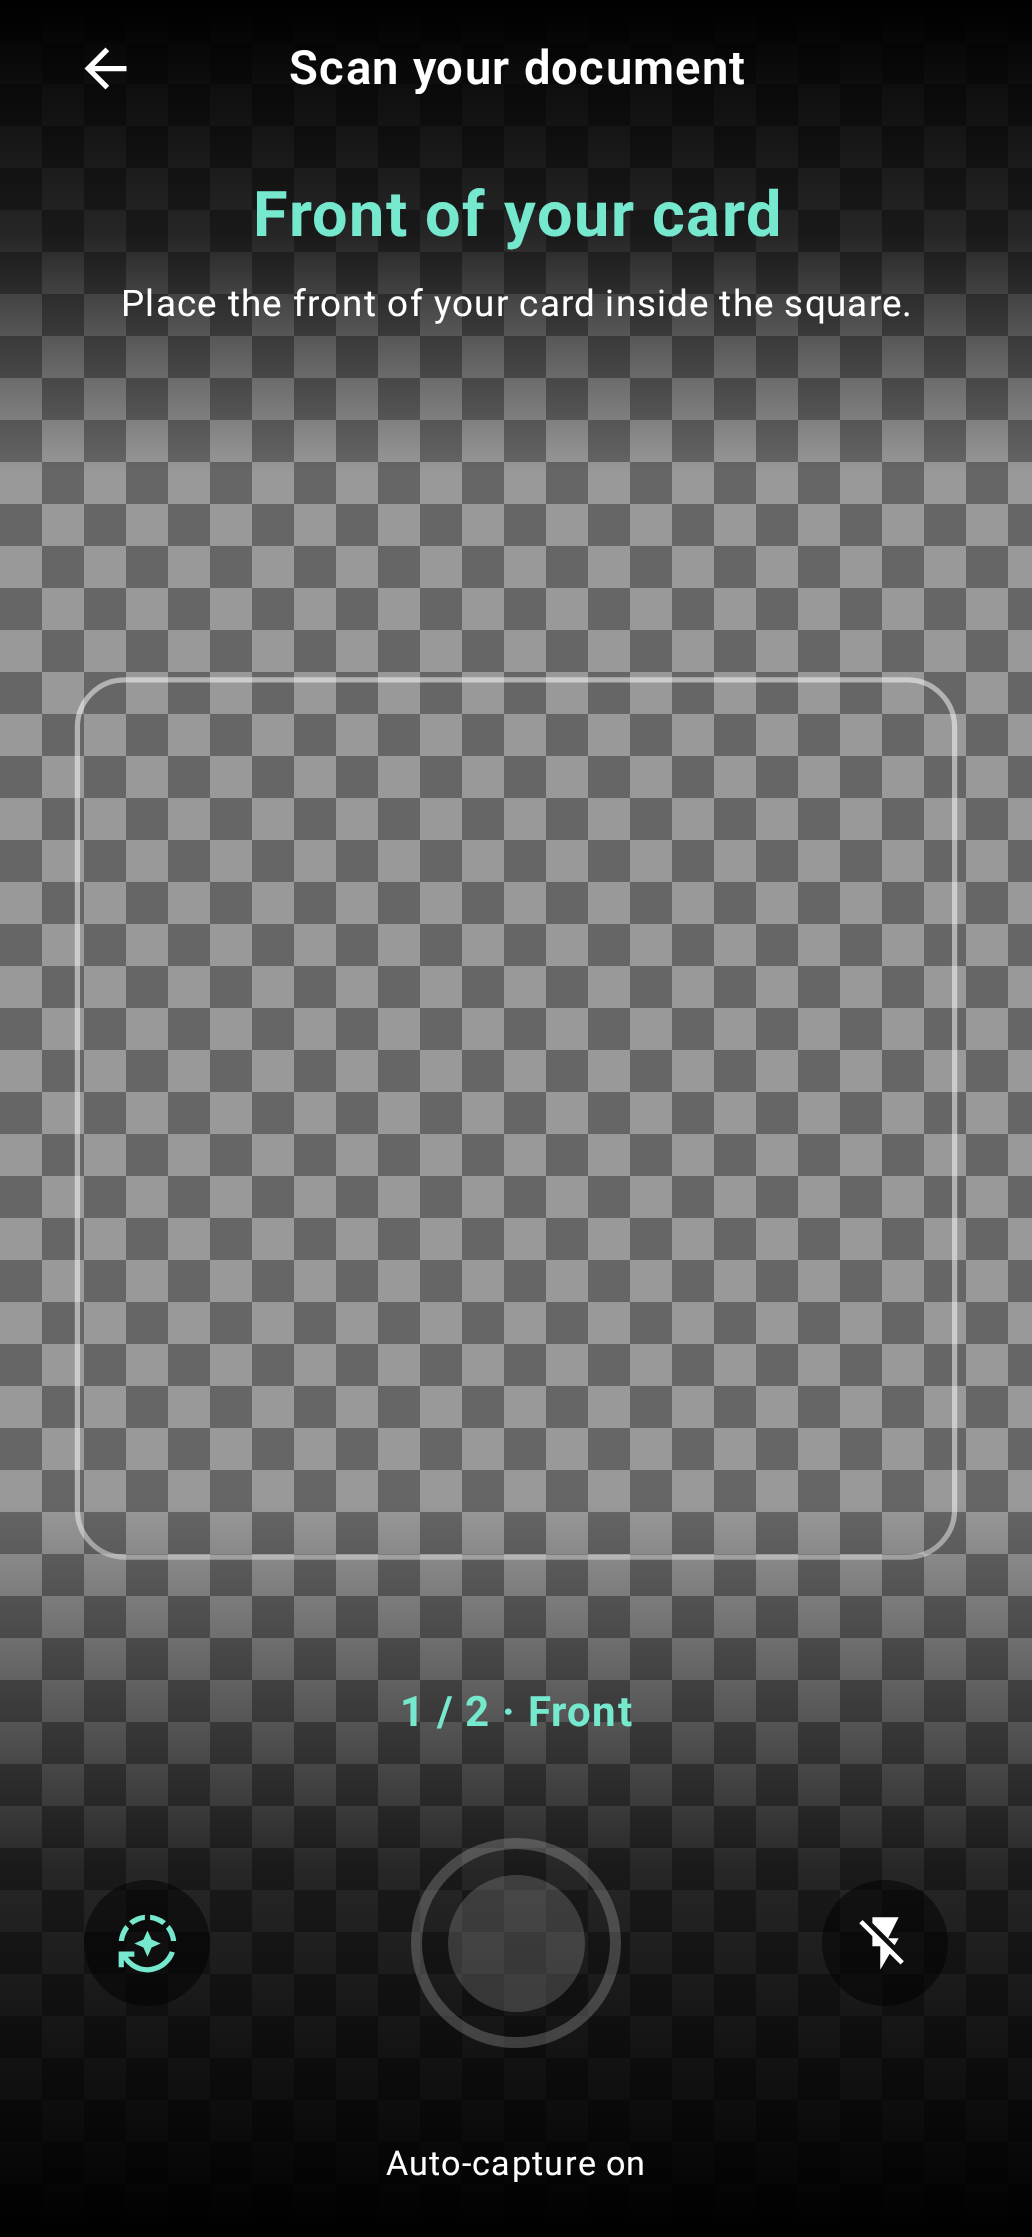
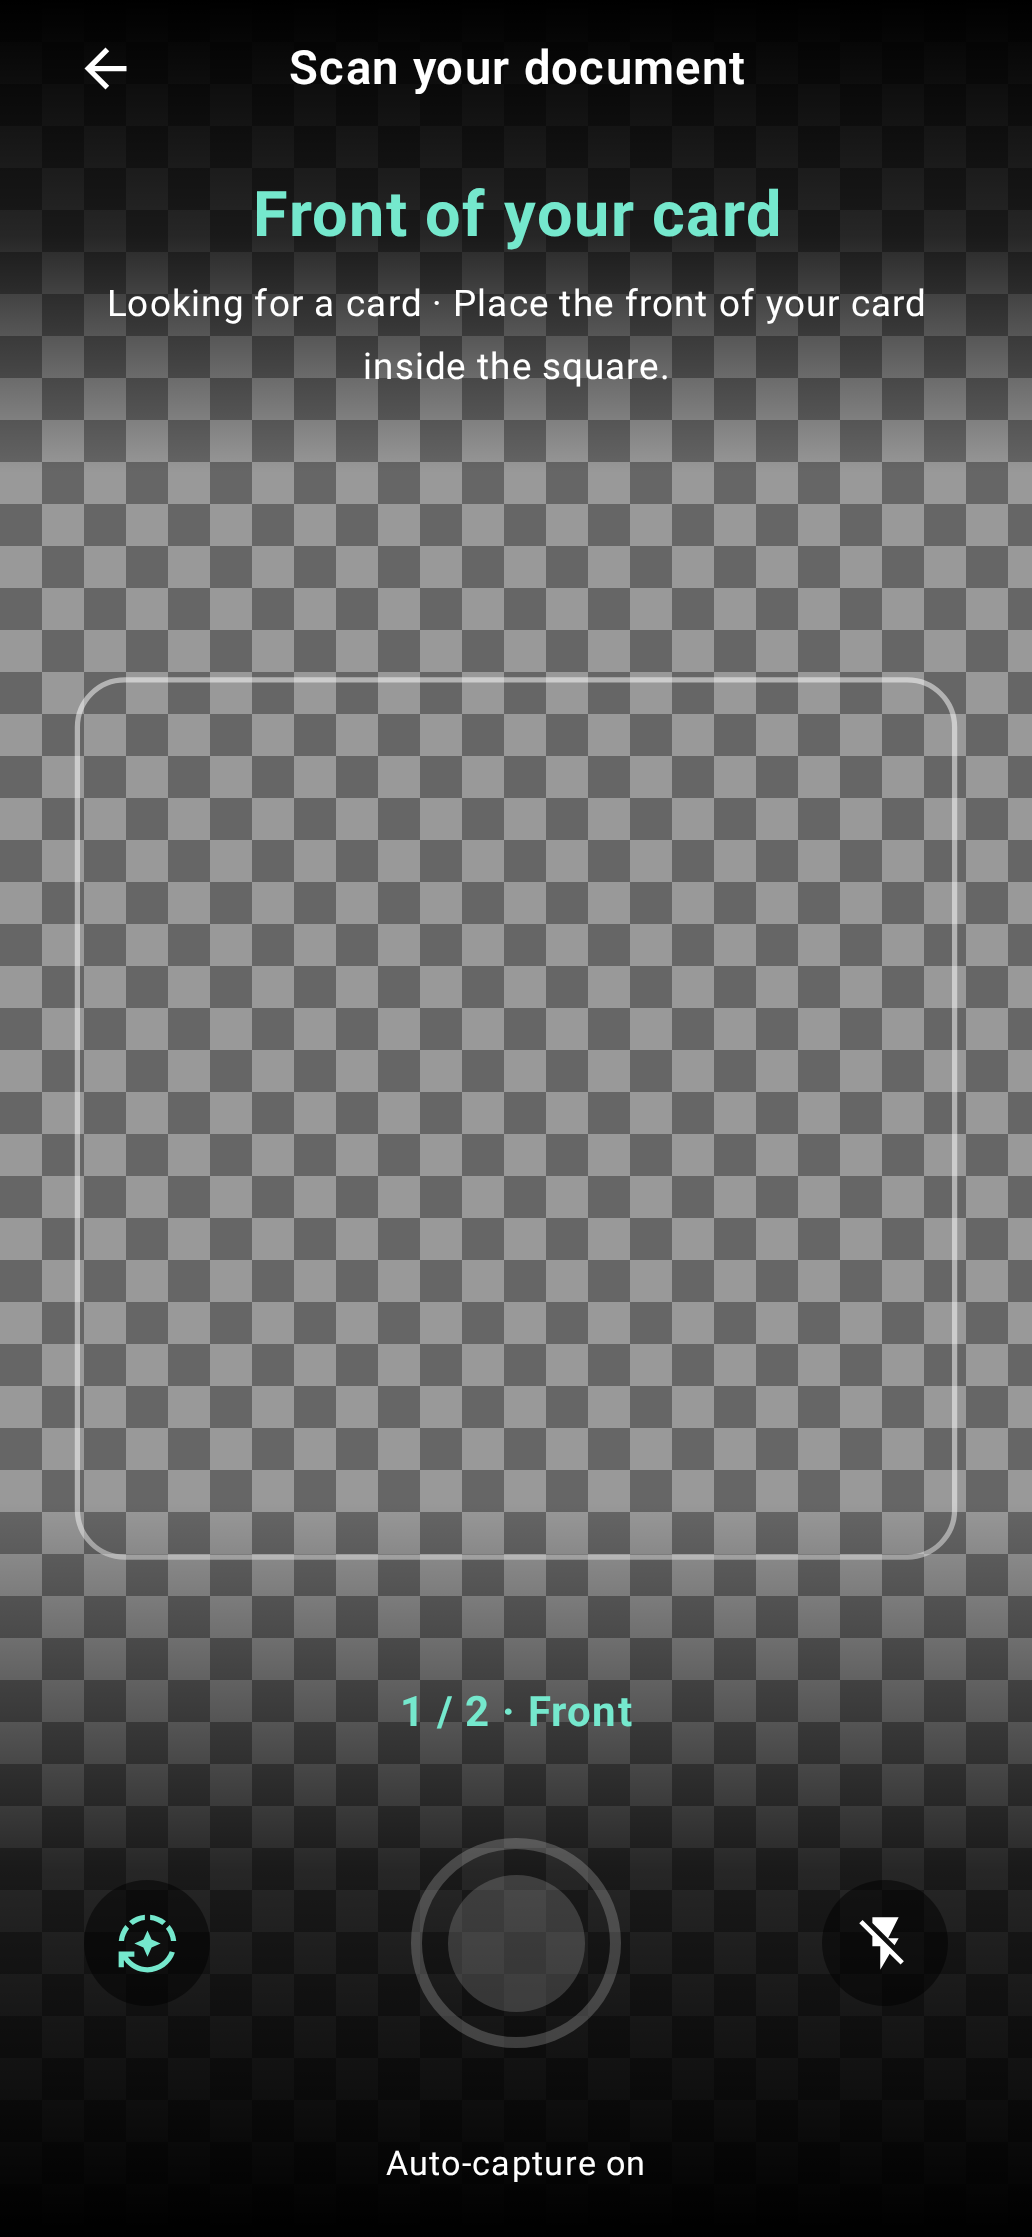
Refresh reviewed screenshots for single-side auto capture and its demo card

Changed region(s): [[0.093, 0.1234, 0.8992, 0.1851]]

diff --git a/docs/screenshots/README.md b/docs/screenshots/README.md
@@ -28,7 +28,7 @@ A release that changes UI or camera behavior needs current device verification; 
 
 ## Render current UI states on the host
 
-The website overview groups the reviewed previews into two-sided capture, single-side capture and overlays, and the demo catalog. `ui-manifest.json` records the 19 curated images and their hashes, dimensions, render commits, and workflow runs. Per-image provenance overrides the top-level render when a later run supplied the image. English and Spanish overviews select the matching capture and welcome screens; overlay examples are shared. These development previews are illustrative on every version's overview; they do not assert that an archived release provides the displayed UI.
+The website overview groups the reviewed previews into two-sided capture, single-side capture and overlays, and the demo catalog. `ui-manifest.json` records the 21 curated images and their hashes, dimensions, render commits, and workflow runs. Per-image provenance overrides the top-level render when a later run supplied the image. English and Spanish overviews select the matching capture and welcome screens; overlay examples are shared. These development previews are illustrative on every version's overview; they do not assert that an archived release provides the displayed UI.
 
 The **Render documentation screens** workflow renders Compose previews for `:carddetector` and `:app`, then compares a second render with those generated images. It runs for PRs and pushes to main/previews and can be dispatched manually. Download `compose-previews-carddetector` and `compose-previews-app` from the run. Each archive includes PNGs, reports, and `render-manifest.json` with the exact source SHA and image hashes. Missing, duplicate or unexpected scenarios fail the job; `scripts/screenshot-scenarios.json` lists the required scenario names, rather than only an image count. Run `python3 scripts/screenshot_manifest.py --module carddetector` (or `--module app`) after rendering to validate them locally and write the candidate manifest.
 
@@ -51,10 +51,10 @@ The existing workflow generates candidates and compares another render from the 
 
 ## Initial-guide transition verification
 
-`CaptureOverlayTest` runs on an API 35 emulator in the **Capture guide fade transitions** job. It exercises the actual single-side/front/back wrappers without starting a camera or model. With the Compose clock paused, it samples pixels on the initial white square before detection and midway through the 250 ms fade, verifies removal after the fade, verifies that a missed detection does not restore it, and verifies that a fresh composition/capture attempt restores it. JVM tests also cover the one-way guide-state policy. Run just these UI tests with:
+`CaptureOverlayTest` runs on an API 35 emulator in the **Capture guide and layout tests** job. It exercises the actual single-side/front/back wrappers without starting a camera or model. With the Compose clock paused, it samples pixels on the initial white square before detection and midway through the 250 ms fade, verifies removal after the fade, verifies that a missed detection does not restore it, and verifies that a fresh composition/capture attempt restores it. JVM tests also cover the one-way guide-state policy. Run just these UI tests with:
 
 ```bash
-./gradlew :carddetector:connectedDebugAndroidTest -Pandroid.testInstrumentationRunnerArguments.class=com.apexfission.android.carddetector.ui.overlays.CaptureOverlayTest
+./gradlew :carddetector:connectedDebugAndroidTest -Pandroid.testInstrumentationRunnerArguments.package=com.apexfission.android.carddetector.ui.overlays
 ```
 
 Static after-miss snapshots deliberately supply the final guide-hidden state; they are not animation evidence. The current UI also uses theme-aware text on turn-over/review screens while camera headers retain their white text over gradients. Refresh curated images only from the reviewed render artifacts and retain their actual source SHA and hashes.

diff --git a/docs/es/demos.md b/docs/es/demos.md
@@ -43,3 +43,7 @@ El [MainViewModel](../../app/src/main/java/com/apexfission/android/carddetector/
 ## Capturas de pantalla y pruebas
 
 La imagen aceptada anterior se extrae de forma determinista del vídeo suministrado, con la marca temporal, el hash de entrada, la configuración de herramientas y el hash de píxeles en el manifiesto multimedia. No es una captura de pantalla nueva de la aplicación. Las capturas actuales de dispositivos son opcionales; no se afirma disponer de una referencia de capturas de dispositivo. Las salidas existentes de pruebas de imágenes corresponden a datos de prueba del detector y no se reutilizan implícitamente como pruebas de la interfaz. Consulte [mantenimiento](../maintenance.md) para los comandos de generación de candidatos, actualización y verificación.
+
+La demo automática de un lado usa el mismo control de enfoque y estabilidad que el flujo de ambos lados. Entrega un recorte actual y vuelve al catálogo; permite seleccionar el modo automático o manual.
+
+![Single-side automatic capture](../screenshots/single-side-auto-es.png)

diff --git a/docs/agents/demos.md b/docs/agents/demos.md
@@ -43,3 +43,7 @@ The simulator's [MainViewModel](../../app/src/main/java/com/apexfission/android/
 ## Screenshots and tests
 
 The accepted image above is deterministically extracted from the supplied video, with timestamp, input hash, tool configuration, and pixel hash in the media manifest. It is not a newly captured app screenshot. Current device screenshots are optional; no device screenshot baseline is claimed. Existing image-test outputs concern detector fixtures and are not silently repurposed as UI evidence. See [maintenance](../maintenance.md) for candidate/update/verify commands.
+
+The single-side automatic demo uses the same focus/stability gate as the two-sided flow. It delivers one current crop and returns to the catalog; automatic/manual mode remains selectable.
+
+![Single-side automatic capture](../screenshots/single-side-auto-en.png)
